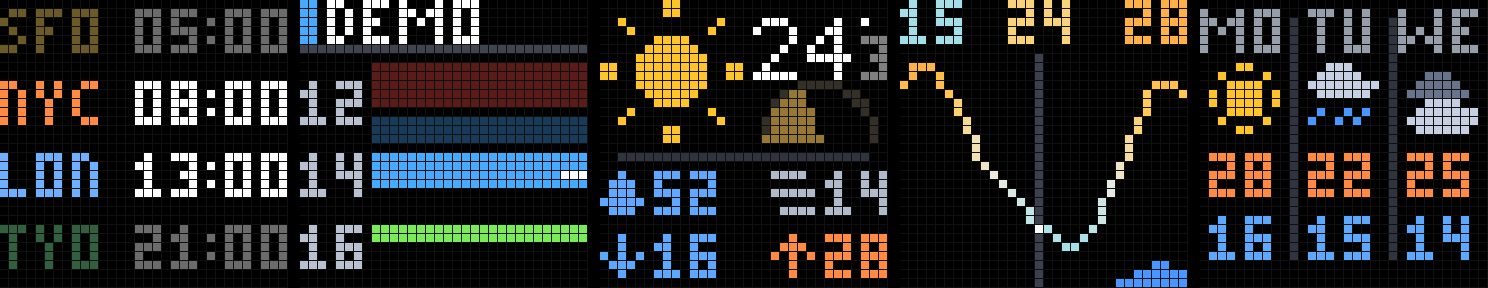
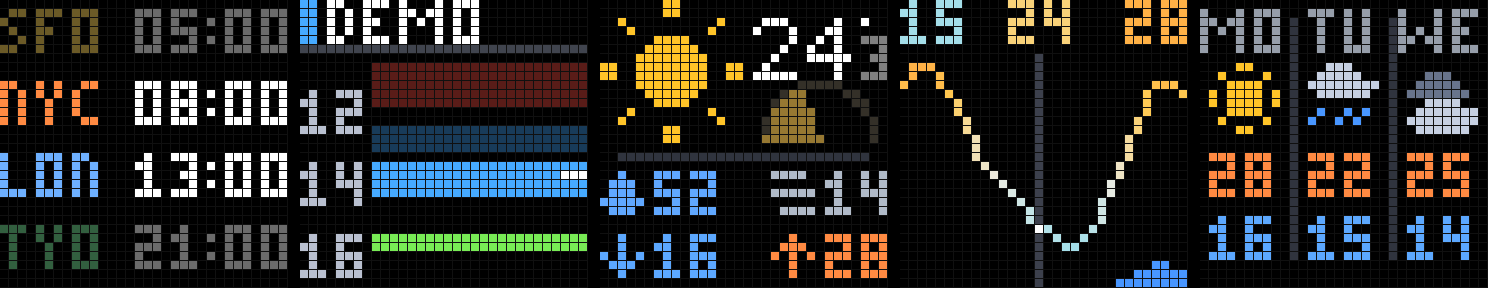
Keep the now-mark inside the event it is marking
Reported from the panel: the white mark sitting one row *below* a block that
was still running, always near its end.

The mark was never the problem — it lands on floor(row(now)), which is right.
The block was: it started at floor(row(start)) but took its height from
round(span). A block covering rows 7.93 to 9.93 was therefore drawn as rows 7
and 8, while the closing minutes of the event genuinely map to row 9. Swept
minute by minute over a sample day, that put the mark outside a live block on
42 of the 210 minutes an event was running — a fifth of the time, and only
ever at the end of one, which is when the page is actually being read.

No rounding of the mark can fix this. A half-open interval [top, bot) occupies
rows floor(top) through ceil(bot)-1 under flooring, and any other height can
leave out a row the mark reaches. So the height is now exactly that.

On its own that would cost every event a row, because the column's origin was
`now` and slid every minute, so a thirty-minute meeting almost never began on
a whole row. The origin is now snapped back to a whole multiple of
minutes_per_row, which costs nothing — it only ever moves earlier, so the
configured minimum look-back still holds — and puts anything starting on a
quarter hour on an exact row. Measured on the same sample day: mark outside a
live block on 0 of 210 minutes, and the on-the-quarter events keep the heights
they had. An event that genuinely straddles two rows, 16:10 to 16:40, draws
[…]

diff --git a/ledclock/pages.py b/ledclock/pages.py
@@ -888,6 +888,27 @@ def _agenda_row(moment: datetime, start: datetime, window: float) -> float:
     return AGENDA_TOP + (hours / window) * (AGENDA_BOTTOM - AGENDA_TOP)
 
 
+def _agenda_grid(start: datetime, minutes_per_row: float) -> datetime:
+    """Snap the top of the column back to a whole row of the clock.
+
+    The origin used to be `now`, which moves every minute, so a half-hour
+    meeting almost never began on a whole row and the honest height above
+    would have cost it an extra pixel most of the time. Anchored to the clock,
+    anything starting on a quarter hour lands on an exact row and the honest
+    height and the proportional one are the same number.
+
+    Snapping only ever moves the origin earlier, so the configured minimum
+    look-back still holds.
+    """
+    if minutes_per_row <= 0:
+        return start
+    midnight = start.replace(hour=0, minute=0, second=0, microsecond=0)
+    minutes = (start - midnight).total_seconds() / 60
+    return midnight + timedelta(
+        minutes=math.floor(minutes / minutes_per_row) * minutes_per_row
+    )
+
+
 def _agenda_fits(left: int, right: int = 32) -> int:
     """How many 3x5 glyphs fit between two columns.
 
@@ -1026,7 +1047,8 @@ def agenda(ctx: PageContext) -> Canvas:
     canvas.hline(0, 5, 32, AGENDA_DIM)
 
     back, window = _agenda_span(ctx, now)
-    visible_start = now - timedelta(hours=back)
+    visible_start = _agenda_grid(now - timedelta(hours=back),
+                                 ctx.config.agenda.minutes_per_row)
 
     every = _agenda_label_every(window)
     hour = visible_start.replace(minute=0, second=0, microsecond=0)
@@ -1045,8 +1067,13 @@ def agenda(ctx: PageContext) -> Canvas:
         colour = event.color
         if event.end <= now:
             colour = tuple(int(c * AGENDA_PAST) for c in colour)
+        # The rows this really covers, not a rounded count of them. The mark
+        # lands on floor(row(now)), so a block running from row 7.93 to 9.93
+        # has to own rows 7, 8 *and* 9 — a height rounded from the span gave
+        # it two, and the last minutes of a live event put the mark one row
+        # underneath its own block.
         canvas.rect(AGENDA_GUTTER, int(top), 32 - AGENDA_GUTTER,
-                    max(1, int(round(bottom - top))), colour)
+                    max(1, math.ceil(bottom) - int(top)), colour)
 
     # A mark at the right edge rather than a rule across the column. Drawn
     # full width it crossed the hour labels and dirtied the digits, which is

diff --git a/tests/test_agenda.py b/tests/test_agenda.py
@@ -69,6 +69,36 @@ class TestTheNowLine(unittest.TestCase):
     def test_it_is_drawn_whenever_the_column_is(self) -> None:
         self.assertIsNotNone(_now_line(pages.agenda(_ctx([_event("14:00", "15:00")]))))
 
+    def test_it_never_sits_outside_an_event_that_is_running(self) -> None:
+        """The bug this guards: the mark one row below a live block.
+
+        The mark lands on floor(row(now)); the block used to be drawn at
+        floor(row(start)) with a height rounded from the span, so a block
+        covering rows 7.93 to 9.93 got two rows while the closing minutes of
+        the event genuinely mapped to row 9. It happened on a fifth of the
+        minutes any event was live, and only ever near the end of one — which
+        is exactly when the page is being looked at.
+
+        Swept minute by minute rather than spot-checked, because whether it
+        bites depends on where the block falls between two rows.
+        """
+        events = [_event("09:30", "10:00", title="STANDUP"),
+                  _event("11:00", "12:30", color=PURPLE, title="WORKSHOP"),
+                  _event("14:00", "15:00", title="REVIEW"),
+                  _event("16:10", "16:40", color=PURPLE, title="GYM")]
+        for minute in range(9 * 60, 17 * 60):
+            now = NOW.replace(hour=minute // 60, minute=minute % 60)
+            live = [e for e in events if e.start <= now < e.end]
+            if not live:
+                continue
+            canvas = pages.agenda(_ctx(events, now=now))
+            mark = _now_line(canvas)
+            self.assertIsNotNone(mark, now)
+            lit = [y for y, row in _rows(canvas).items()
+                   if y >= pages.AGENDA_TOP
+                   and row[pages.AGENDA_GUTTER] == live[0].color]
+            self.assertIn(mark, lit, f"{now:%H:%M} {live[0].title}")
+
     def test_it_survives_landing_on_an_event(self) -> None:
         """The bug this guards: it vanished exactly when something was running.
 
